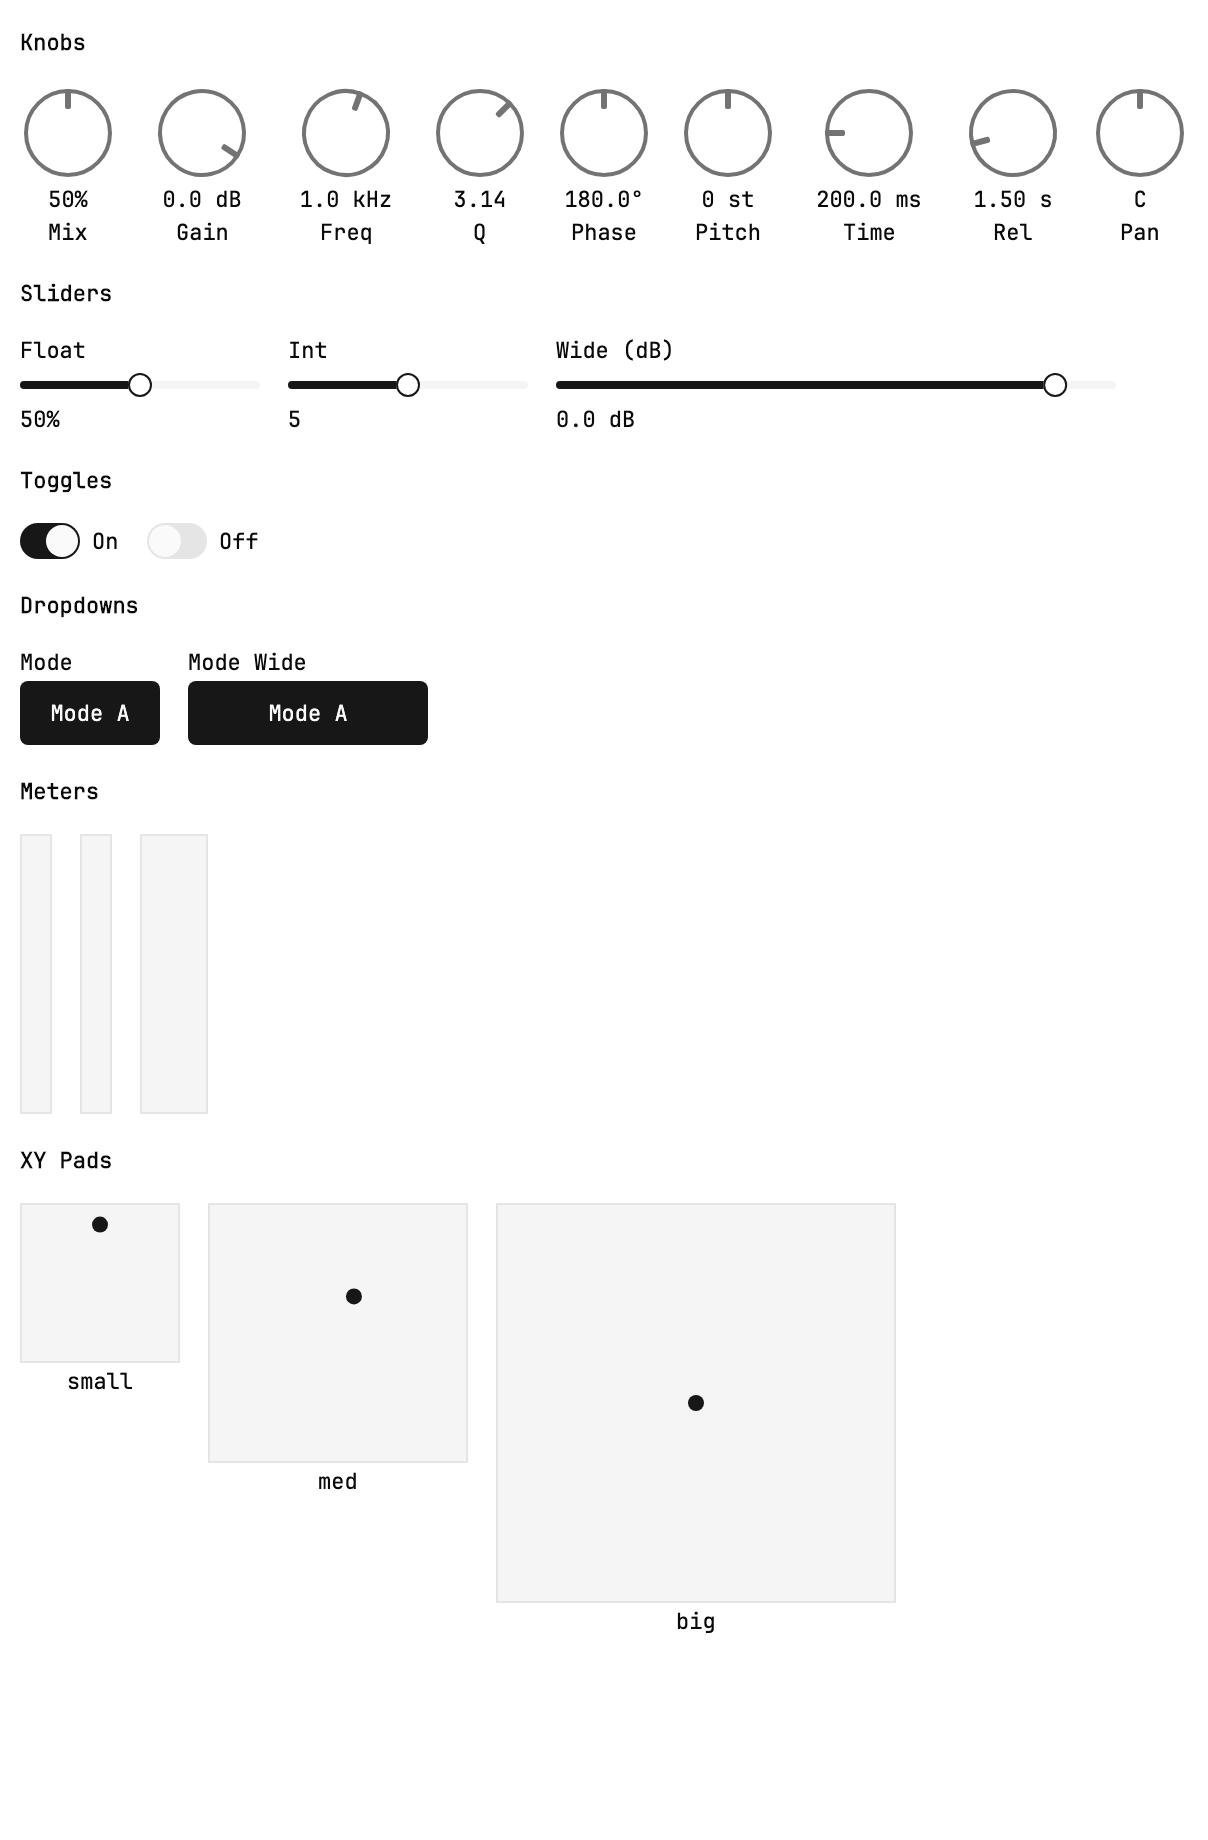
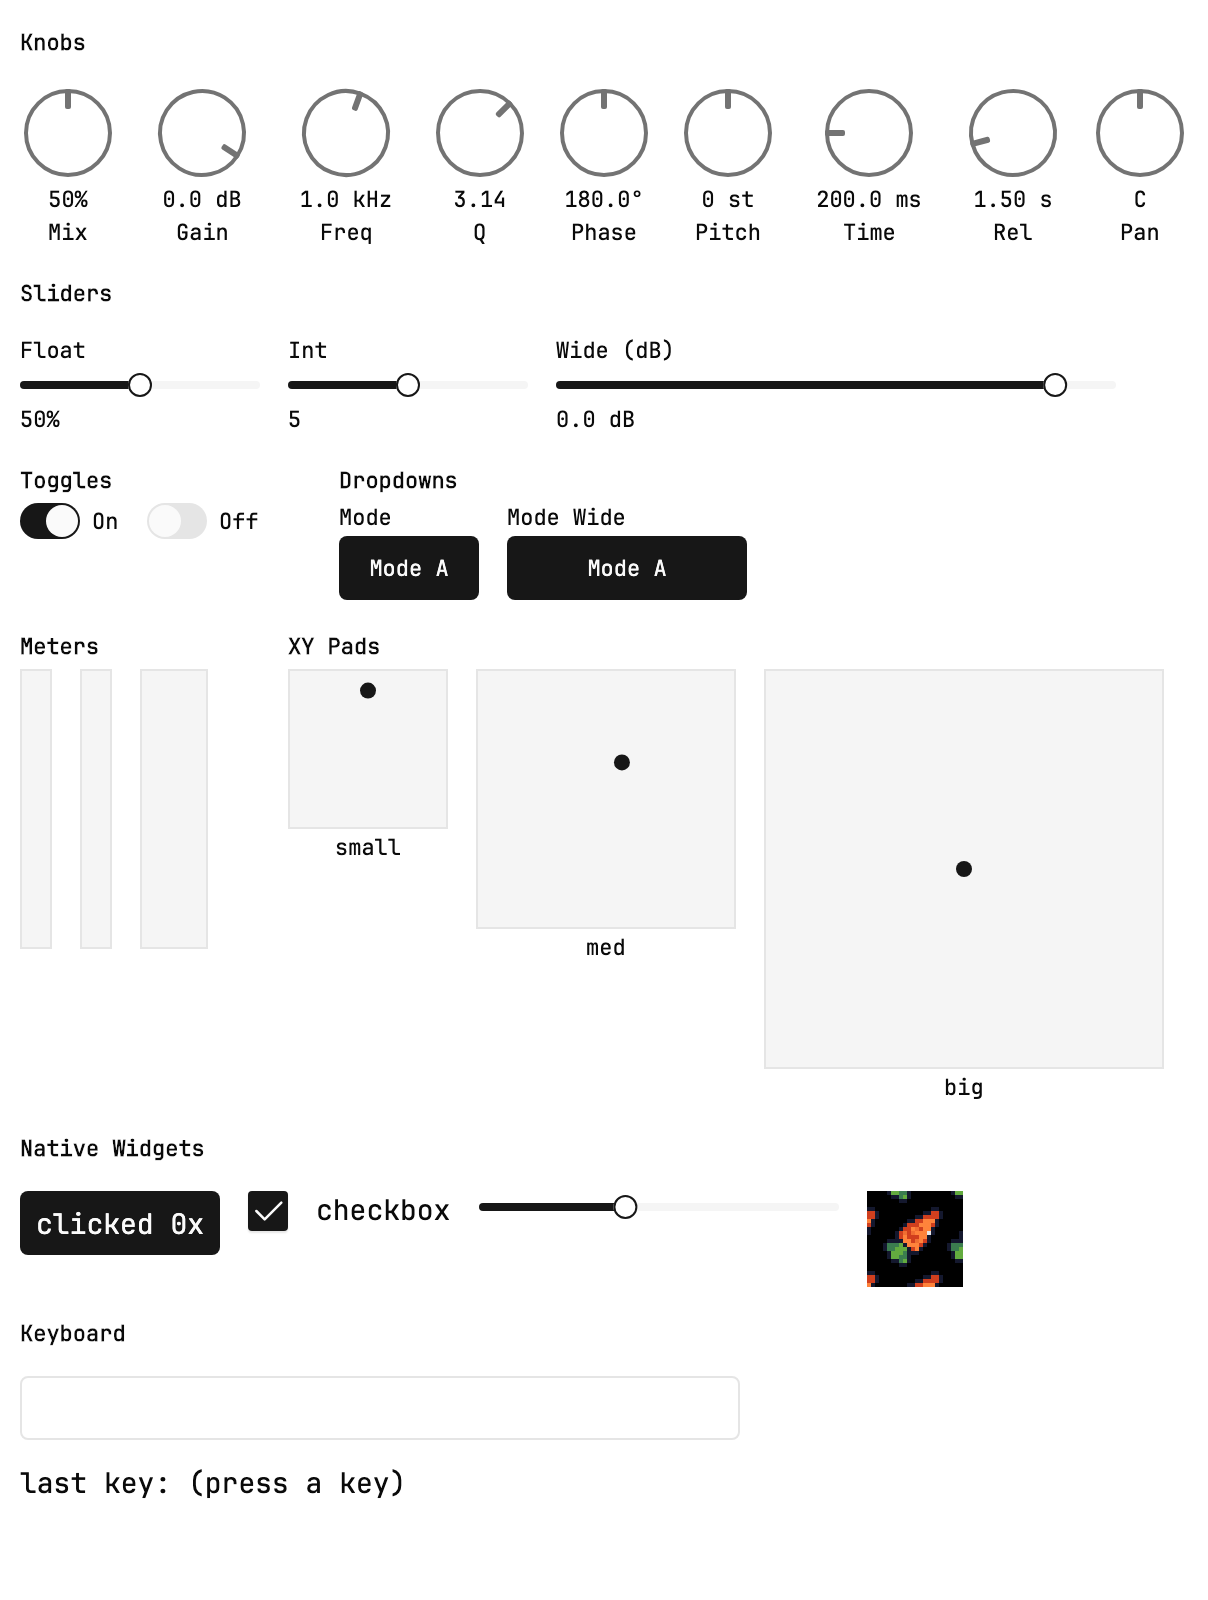
0.63.1 and 0.63.2 updates

diff --git a/src/content/docs/changelog.md b/src/content/docs/changelog.md
@@ -2,6 +2,18 @@
 
 Notable changes per release.
 
+## 0.63.2
+
+- **`cargo truce --shell` finds `[profile.shell]` at the Cargo workspace root** - the preflight no longer rejects plugin crates that are members of a larger workspace. ([#148](https://github.com/truce-audio/truce/issues/148))
+- **`truce-vizia` no longer risks messaging a freed parent `NSView`** on editor teardown - the per-frame macOS re-anchor stops once the editor closes.
+- **`vizia` is now documented as not recommended for production** due to teardown/resize stability issues internal to vizia.
+
+## 0.63.1
+
+- **Slint editors receive keyboard input.** `truce-slint` translates native key events into Slint `WindowEvent` key events, so `LineEdit` / `TextInput` and `FocusScope` work in plugin editors (host focus permitting).
+- **The slint `gui-zoo` example demos native Slint widgets** - button, checkbox, spinbox, slider, progress bar, image - plus a keyboard section, alongside the truce param widgets.
+- **The vizia `gui-zoo` example demos native Vizia widgets** - button, checkbox, slider, image - plus a keyboard section, alongside the truce param widgets.
+
 ## 0.63.0
 
 - **iced editors receive keyboard input.** `truce-iced` now forwards native key events into the iced widget tree (a focused `text_input` or a custom key-capture `Widget` reading `physical_key` / logical key), and `IcedPlugin::subscription()` (e.g. `iced::keyboard::listen`, `iced::event::listen_with`) now fires via an event pump. Keys arrive when the host grants the editor window focus. ([#134](https://github.com/truce-audio/truce/discussions/134))

diff --git a/src/content/docs/guide/gui/vizia.md b/src/content/docs/guide/gui/vizia.md
@@ -1,5 +1,15 @@
 # Vizia Integration
 
+> **Not recommended for production.** `truce-vizia` is provided as a
+> basic, working integration, but vizia is the least stable of the
+> backends: it can panic from inside its own transform system during
+> editor teardown or resize in a host (a non-invertible transform hits
+> an `invert().unwrap()`), and because that panic unwinds across the
+> host's native event loop it **aborts the whole host process**. Until
+> the upstream is patched, prefer the built-in editor, `truce-egui`,
+> `truce-iced`, or `truce-slint` for plugins you ship. Vizia stays
+> useful for prototyping and for exercising the reactive / CSS workflow.
+
 [Vizia](https://github.com/vizia/vizia) is a declarative GUI
 framework with reactive data binding and CSS styling. `truce-vizia`
 embeds it via baseview and bridges parameter reads/writes through a

diff --git a/src/content/docs/guide/gui/README.md b/src/content/docs/guide/gui/README.md
@@ -36,7 +36,9 @@ tabs, custom drawing — pick a framework:
   files, wire properties in Rust. Has an IDE live preview.
 - **[Vizia](vizia.md)** — retained-mode with reactive data binding
   and CSS. Per-param `Signal<f32>` keeps widgets in sync. Desktop
-  only (no iOS, no Windows ARM64).
+  only (no iOS, no Windows ARM64). **Not recommended for production**
+  — a vizia-internal panic on editor teardown can abort the host; see
+  the [stability warning](vizia.md).
 
 All four integrate the same way: return the backend's editor from
 `editor()`, finishing with `.into_editor()`. The rest of your plugin
